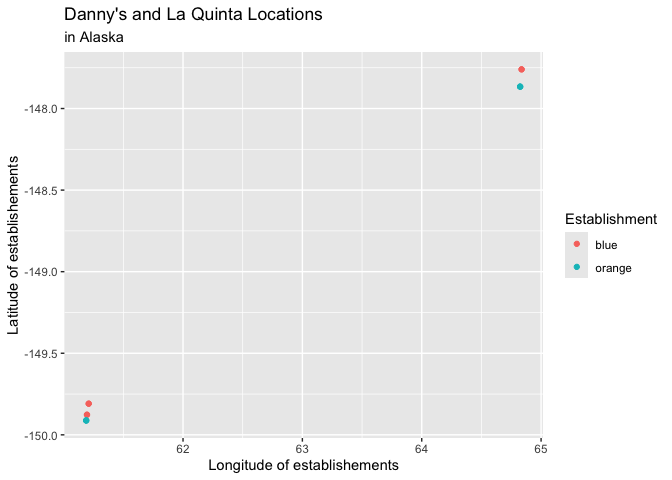
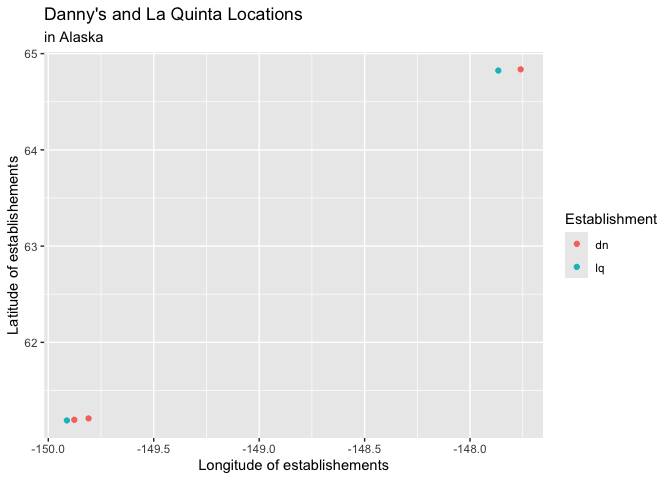
commit

diff --git a/lab-05.md b/lab-05.md
@@ -42,25 +42,22 @@ There are 2 La Quinta locations in Alaska.
 dn_ak$establishment <- "dn"
 lq_ak$establishment <- "lq"
 
-dn_lq_ak <- 
+dn_lq_ak1 <- 
   full_join(dn_ak, lq_ak, by = join_by(address, city, state, zip, longitude, latitude, establishment))
 ```
 
 ``` r
 #dn1
-dn1_lq1 <- sqrt((dn_lq_ak$longitude[1] - dn_lq_ak$longitude[4])^2 + (dn_lq_ak$latitude[1] - dn_lq_ak$latitude[4])^2)
-
-dn1_lq2 <- sqrt((dn_lq_ak$longitude[1] - dn_lq_ak$longitude[5])^2 + (dn_lq_ak$latitude[1] - dn_lq_ak$latitude[5])^2)
+dn1_lq1 <- sqrt((dn_lq_ak1$longitude[1] - dn_lq_ak1$longitude[4])^2 + (dn_lq_ak1$latitude[1] - dn_lq_ak1$latitude[4])^2)
+dn1_lq2 <- sqrt((dn_lq_ak1$longitude[1] - dn_lq_ak1$longitude[5])^2 + (dn_lq_ak1$latitude[1] - dn_lq_ak1$latitude[5])^2)
 
 #dn2
-dn2_lq1 <- sqrt((dn_lq_ak$longitude[2] - dn_lq_ak$longitude[4])^2 + (dn_lq_ak$latitude[2] - dn_lq_ak$latitude[4])^2)
-
-dn2_lq2 <- sqrt((dn_lq_ak$longitude[2] - dn_lq_ak$longitude[5])^2 + (dn_lq_ak$latitude[2] - dn_lq_ak$latitude[5])^2)
+dn2_lq1 <- sqrt((dn_lq_ak1$longitude[2] - dn_lq_ak1$longitude[4])^2 + (dn_lq_ak1$latitude[2] - dn_lq_ak1$latitude[4])^2)
+dn2_lq2 <- sqrt((dn_lq_ak1$longitude[2] - dn_lq_ak1$longitude[5])^2 + (dn_lq_ak1$latitude[2] - dn_lq_ak1$latitude[5])^2)
 
 #dn3
-dn3_lq1 <- sqrt((dn_lq_ak$longitude[3] - dn_lq_ak$longitude[4])^2 + (dn_lq_ak$latitude[3] - dn_lq_ak$latitude[4])^2)
-
-dn3_lq2 <- sqrt((dn_lq_ak$longitude[3] - dn_lq_ak$longitude[5])^2 + (dn_lq_ak$latitude[3] - dn_lq_ak$latitude[5])^2)
+dn3_lq1 <- sqrt((dn_lq_ak1$longitude[3] - dn_lq_ak1$longitude[4])^2 + (dn_lq_ak1$latitude[3] - dn_lq_ak1$latitude[4])^2)
+dn3_lq2 <- sqrt((dn_lq_ak1$longitude[3] - dn_lq_ak1$longitude[5])^2 + (dn_lq_ak1$latitude[3] - dn_lq_ak1$latitude[5])^2)
 ```
 
 There are six pairings.
@@ -98,19 +95,46 @@ dn_lq_ak
 
 ### Exercise 4
 
-How many observations are in the joined dn_lq_ak data frame? What are
-the names of the variables in this data frame. …
-
-There are 6 in the joined dn_lq_ak data frame. The names are address.x,
-city.x, state, zip.x, longitude.x, latitude.x, establishment.x,
-address.y, city.y, zip.y, longitude.y, latitude.y, establishment.y
+There are 6 observations in the joined dn_lq_ak data frame. The names
+are address.x, city.x, state, zip.x, longitude.x, latitude.x,
+establishment.x, address.y, city.y, zip.y, longitude.y, latitude.y,
+establishment.y.
 
 ### Exercise 5
 
-…
-
 ### Exercise 6
 
-…
+``` r
+dn_lq_ak$distance <- haversine(dn_lq_ak$longitude.x, dn_lq_ak$latitude.x, dn_lq_ak$longitude.y, dn_lq_ak$latitude.y, round = 3)
+```
 
-Add exercise headings as needed.
+### Exercise 7
+
+``` r
+dn_lq_ak_mindist <- dn_lq_ak %>%
+  group_by(address.x) %>%
+  summarize(closest = min(distance))
+```
+
+### Exercise 8
+
+``` r
+dn_lq_ak1 %>%
+  ggplot(mapping = aes(
+    x = longitude,
+    y = latitude,
+    color = establishment
+    )) +
+  geom_point() +
+  labs(
+  title = "Danny's and La Quinta Locations",
+  subtitle = "in Alaska",
+  x = "Longitude of establishements", 
+  y = "Latitude of establishements", 
+  color = "Establishment"
+     )
+```
+
+![](lab-05_files/figure-gfm/ak-vis-1.png)<!-- --> As shown in the graph,
+in Alaska, La Quinta locations are all near Denny’s. The distance
+between the nearest Denny’s and La Quinta are 5.197, 2.035, 5.998.
